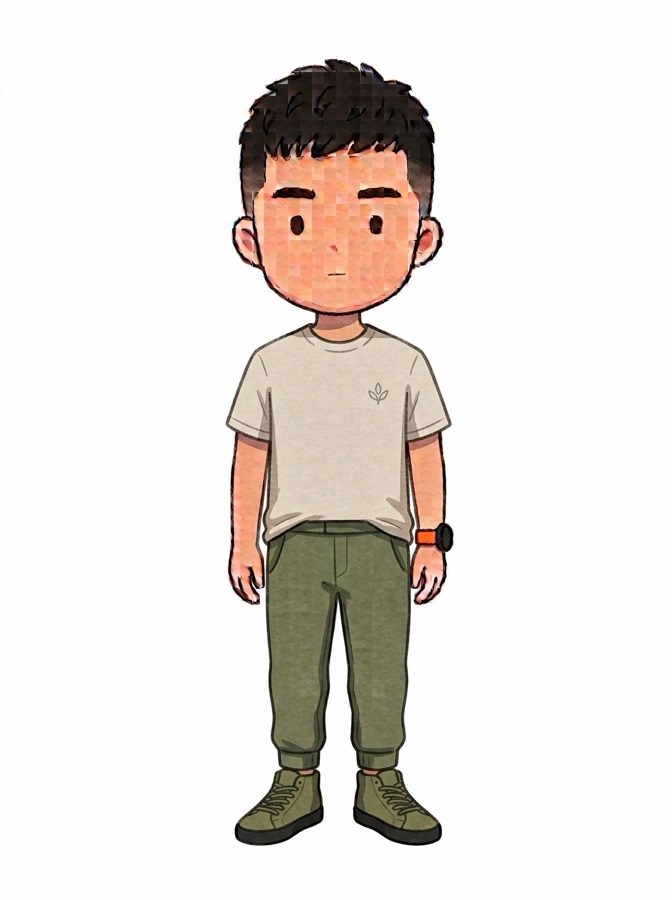
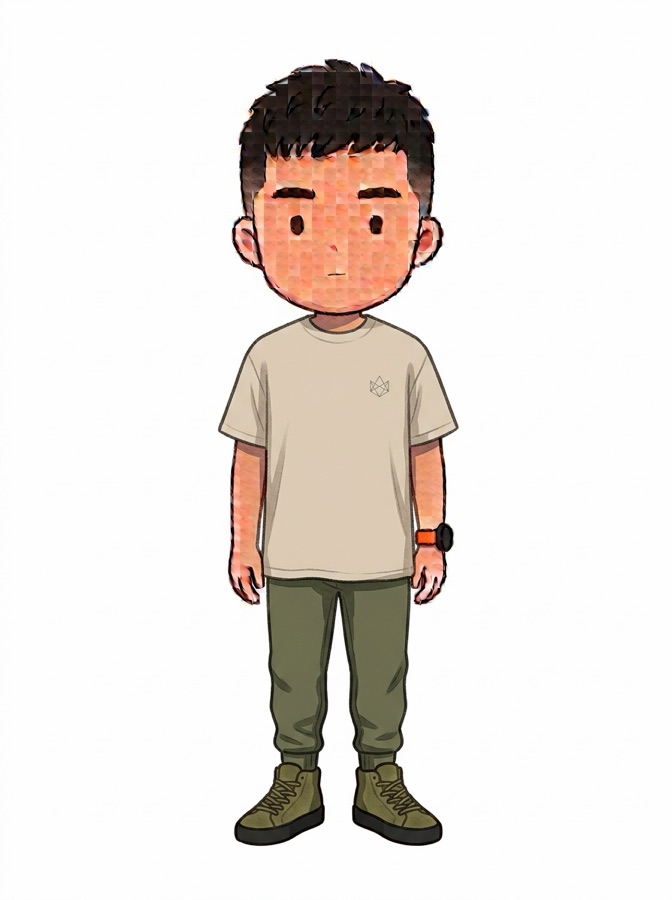
C、D 重繪：衣襬完整蓋過褲頭

Changed region(s): [[0.3125, 0.3422, 0.6875, 0.9333]]

diff --git a/index.html b/index.html
@@ -1,5 +1,5 @@
 <!doctype html>
-<html lang="zh-Hant" data-v="28">
+<html lang="zh-Hant" data-v="29">
 <head>
 <meta charset="utf-8">
 <meta name="viewport" content="width=device-width, initial-scale=1, viewport-fit=cover">
